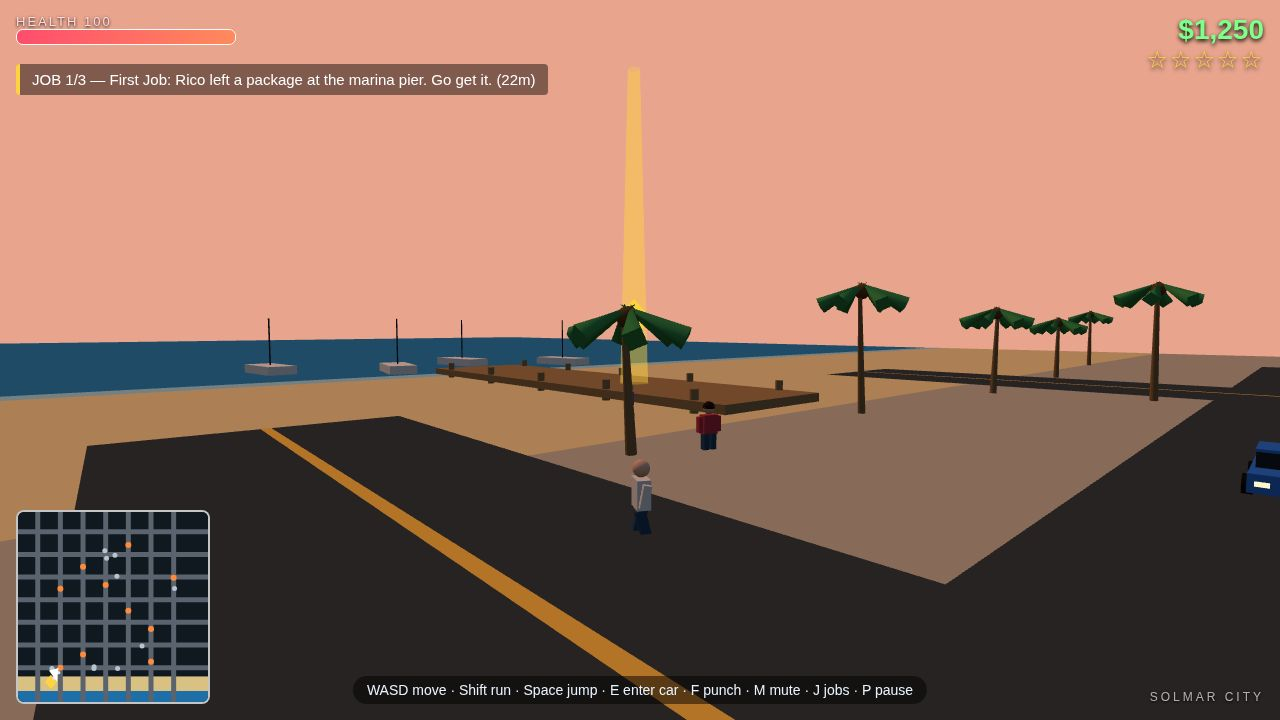
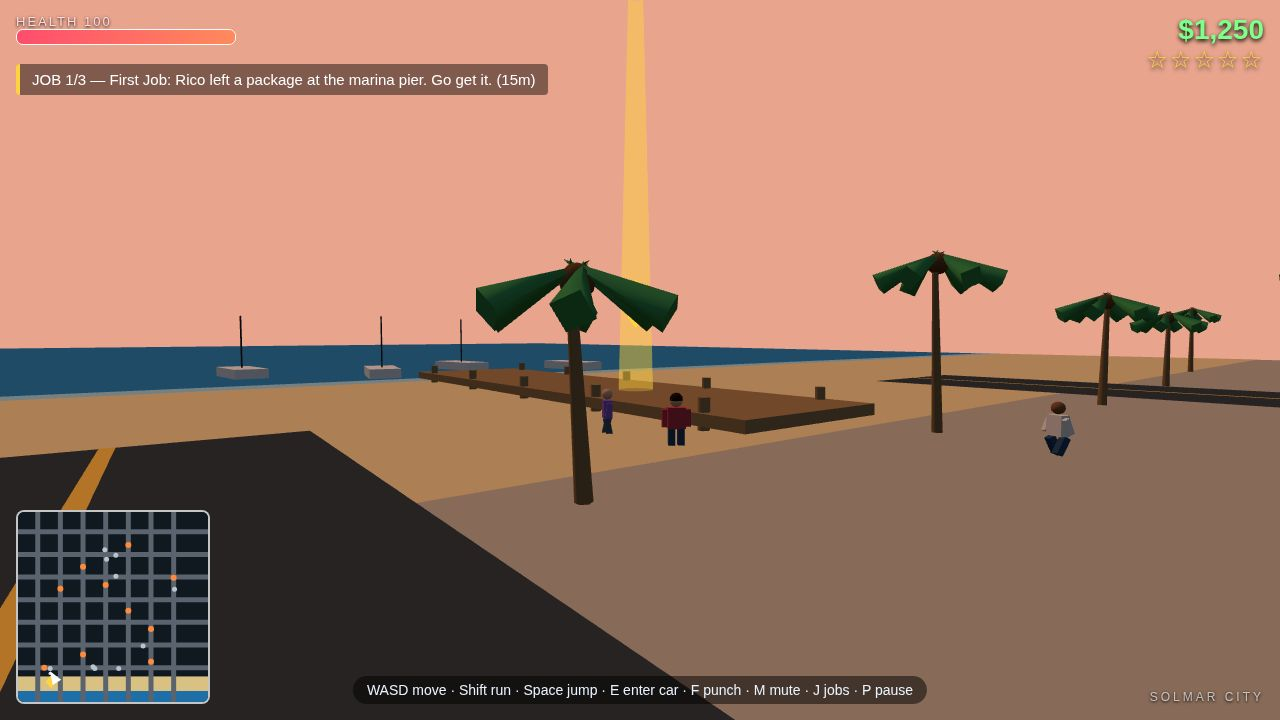
Mission pose: over-the-shoulder framing; bigger mission gem

diff --git a/game/src/shots.js b/game/src/shots.js
@@ -116,9 +116,11 @@ export function stageShot(name, ctx) {
     near.group.position.set(-168, 0, 186);
     near.group.rotation.y = Math.PI / 2;
     traffic.place(0, -62, 186, 'ew', 1, 10);
-    peds.place(0, -156, 200);
-    peds.place(1, -146, 214);
-    ctx.setCamera(-126, 4.5, 194, -148, 3, 222);
+    peds.place(0, -152, 218);
+    peds.place(1, -128, 200);
+    // Over Mara's shoulder: she fills the foreground, the pier, the gold
+    // beacon and the boats fill the background.
+    ctx.setCamera(-136, 3.2, 200, -152, 3, 226);
     ctx.setState('playing');
     return 'fixed';
   }

diff --git a/game/src/missions.js b/game/src/missions.js
@@ -44,7 +44,7 @@ export function createMissions(scene) {
   // Marker: a floating octahedron over a light pillar, visible from afar.
   const marker = new THREE.Group();
   const gem = new THREE.Mesh(
-    new THREE.OctahedronGeometry(1.6),
+    new THREE.OctahedronGeometry(2.1),
     new THREE.MeshBasicMaterial({ color: 0xffd23f }),
   );
   gem.position.y = 6;
